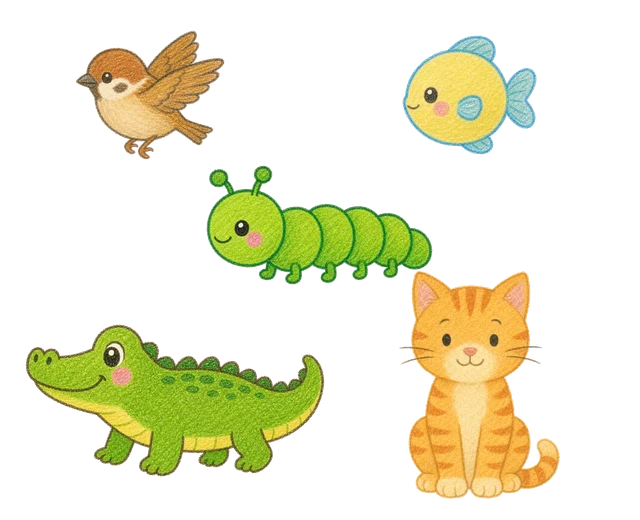
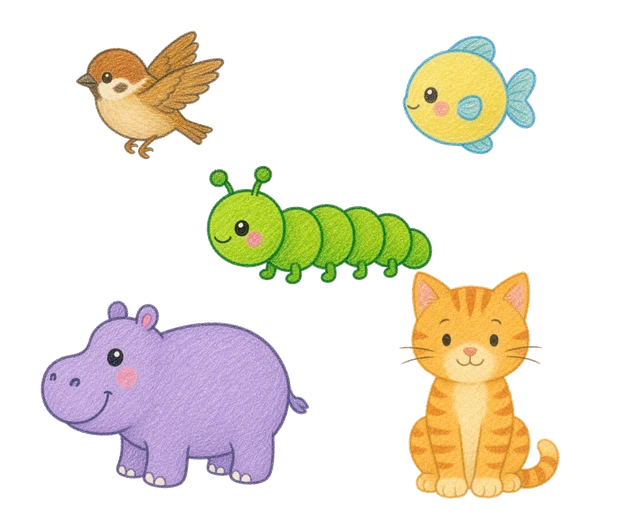
「다른 모습 친구」 카드 — 악어 대신 하마 (애벌레와 같은 초록이라 겹쳤다, 11/5 사용자)

Changed region(s): [[0.0312, 0.5846, 0.5312, 0.9538]]

diff --git a/src/screens/S03Form.tsx b/src/screens/S03Form.tsx
@@ -8,7 +8,7 @@ import type { StepChoice } from "@/types/story";
 
 /** 형태 카드 그림 (public/forms, 11/4 사용자). 형태는 특정 동물이 아니라 몸 모양 안내선으로 —
  *  정면 강아지 그림은 「옆모습 · 다리 아래로」 그려야 하는 4족형과 맞지 않았다. 「다른 모습」은 새 · 나비 · 물고기 ·
- *  애벌레 · 악어 · 고양이 모음(장면 그림을 합친 것)으로 사람이 아닌 친구 전부를 뜻한다 — 형태(날개 · 지느러미 · 긴 몸 · 네 발)를 하나씩, 11/5 사용자. 그림이 없는 형태는 물음표 */
+ *  애벌레 · 하마 · 고양이 모음(장면 그림을 합친 것)으로 사람이 아닌 친구 전부를 뜻한다 — 형태(날개 · 지느러미 · 긴 몸 · 네 발)를 하나씩, 11/5 사용자. 그림이 없는 형태는 물음표 */
 const ICON: Record<string, string> = {
   biped: "biped.svg", quadruped: "quadruped.svg", chain: "chain.svg", finned: "finned.svg", winged: "winged.svg",
   nonhumanoid: "others.webp", none: "none.svg",
